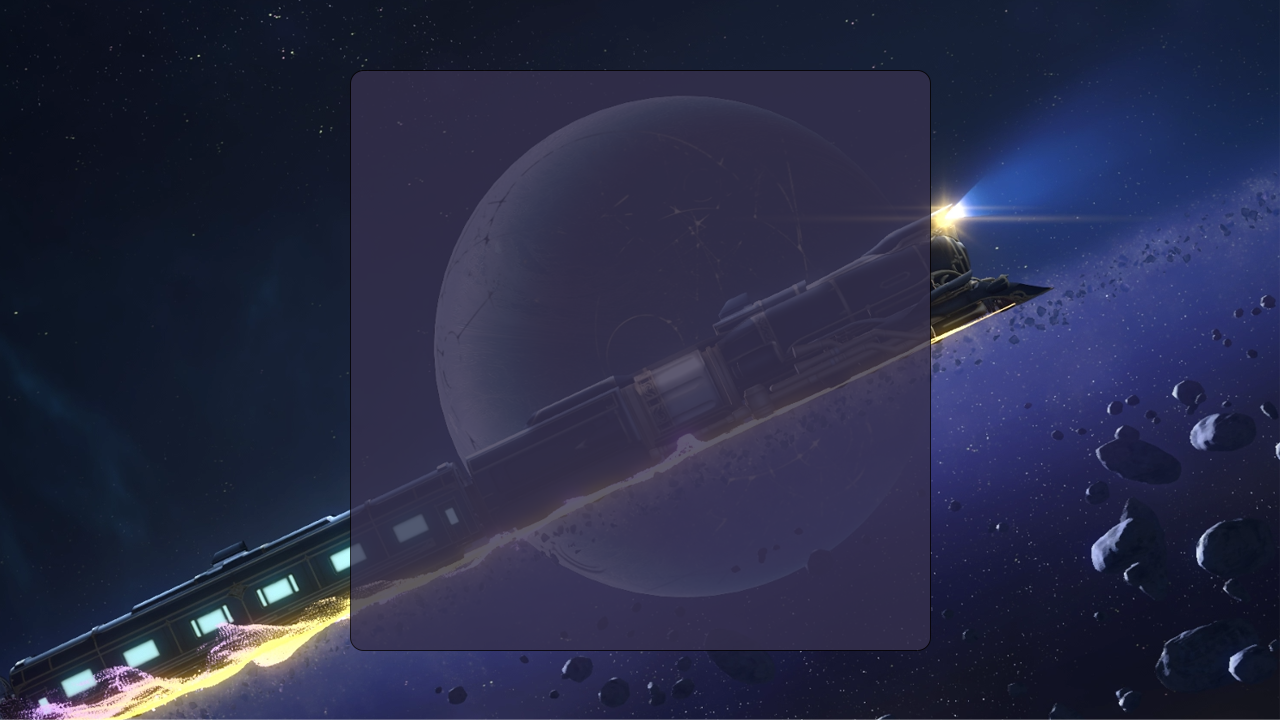
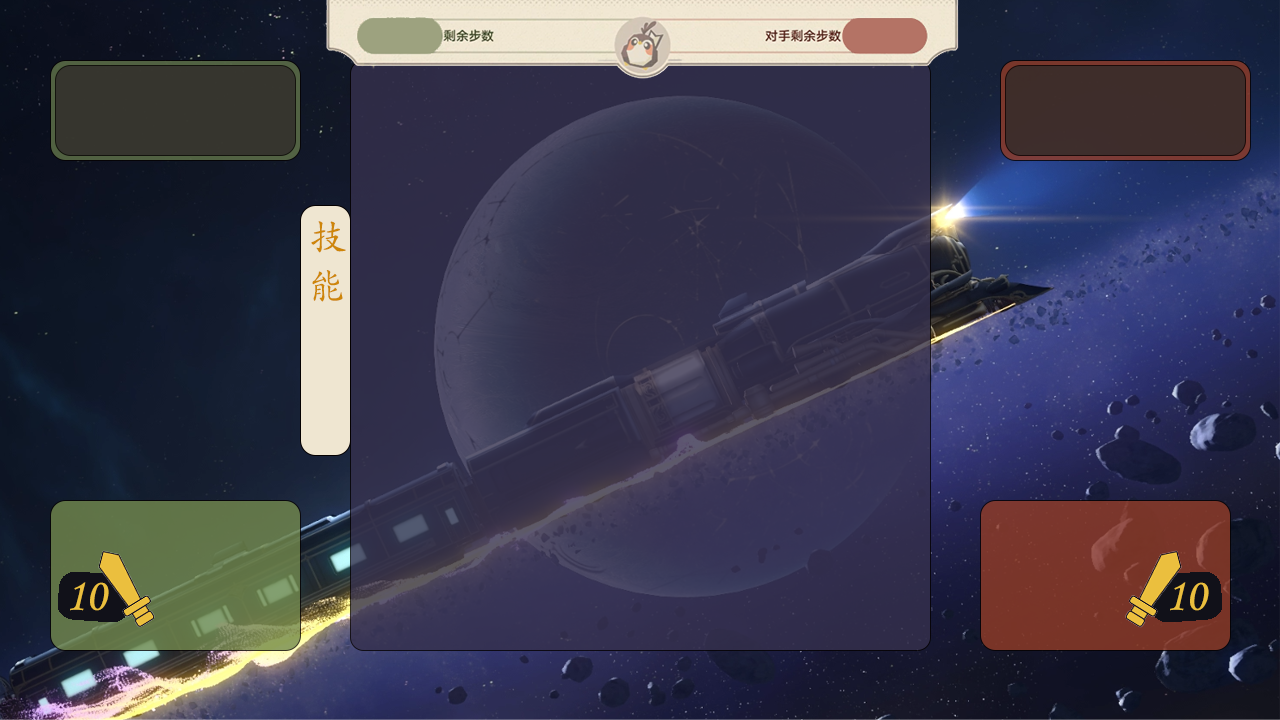
V10

diff --git a/play.cpp b/play.cpp
@@ -9,6 +9,32 @@ play::play(QWidget *parent)
     ui->setupUi(this);   
     this->setWindowTitle("小鸟消消乐");
     ui->bg->setPixmap(QPixmap(":/rc/bg.png"));
+    score=new QLabel(this);
+    cpscore=new QLabel(this);
+    step=new QLabel(this);
+    cpstep=new QLabel(this);;
+    QFont font1("华文隶书",48),font2("华文楷体",24);
+    score->setFont(font1);
+    cpscore->setFont(font1);
+    step->setFont(font2);
+    cpstep->setFont(font2);
+    score->setAlignment(Qt::AlignCenter);
+    cpscore->setAlignment(Qt::AlignCenter);
+    step->setAlignment(Qt::AlignCenter);
+    cpstep->setAlignment(Qt::AlignCenter);
+    score->setStyleSheet("QLabel { color : white; }");
+    cpscore->setStyleSheet("QLabel { color : white; }");
+    step->setStyleSheet("QLabel { color : rgb(254,191,68); }");
+    cpstep->setStyleSheet("QLabel { color : rgb(254,191,68); }");
+    score->setGeometry(140, 500, 150, 150);
+    cpscore->setGeometry(980, 500, 150, 150);
+    step->setGeometry(370, 20, 60, 33);
+    cpstep->setGeometry(855, 20, 60, 33);
+    score->setText(QString::number(Score));
+    cpscore->setText(QString::number(CPScore));
+    step->setText(QString::number(Step));
+    cpstep->setText(QString::number(CPStep));
+    CPRole=rand()%5;
     fruit=new QPushButton[49];
     for(int i=0;i<49;i++)
     {
@@ -29,6 +55,10 @@ play::~play()
 {
     delete ui;
     delete[] fruit;
+    delete score;
+    delete cpscore;
+    delete step;
+    delete cpstep;
 }
 
 void play::draw()
@@ -44,7 +74,7 @@ void play::draw()
             fruit[i*7+j].move(365+i*80,85+j*80);
         }
     this->repaint();
-    QTest::qSleep(100);
+    QTest::qSleep(10);
 }
 
 bool play::judgeStart()
@@ -75,6 +105,7 @@ void play::swap(int i)
         }
         else if(abs(sx-ix)+abs(sy-iy)==1)
         {
+            Step--;
             int tem=matrix[sx][sy];
             matrix[sx][sy]=matrix[ix][iy];
             matrix[ix][iy]=tem;
@@ -85,8 +116,7 @@ void play::swap(int i)
                 fruit[i].move(365+ix*80-Distance*vectorx*2,85+iy*80-Distance*vectory*2);
                 fruit[Selected].move(365+sx*80+Distance*vectorx*2,85+sy*80+Distance*vectory*2);
                 this->repaint();
-            }
-
+            }            
             if((matrix[sx][sy]>=5&&matrix[ix][iy]>=5)||matrix[sx][sy]==20||matrix[ix][iy]==20)
             {
                 int x=matrix[sx][sy]>matrix[ix][iy]?matrix[ix][iy]:matrix[sx][sy];
@@ -147,6 +177,7 @@ void play::swap(int i)
             {
                 matrix[ix][iy]=matrix[sx][sy];
                 matrix[sx][sy]=tem;
+                Step++;
             }
             Selected=-1;
             draw();
@@ -158,6 +189,9 @@ void play::swap(int i)
             Selected=i;
         }
     }
+    score->setText(QString::number(Score));
+    step->setText(QString::number(Step));
+    //if(step==0)
 }
 
 void play::Skillone(int y)
@@ -231,7 +265,7 @@ void play:: Skilltwo(int x)
 void play::Skillthree(int x,int y,int r)
 {
     for(int i=(x-r>0?x-r:0);i<=(x+r>6?6:x+r);i++)
-        for(int j=(y-r>0?y-r:0);j<(y+r>6?6:y+r);j++)
+        for(int j=(y-r>0?y-r:0);j<=(y+r>6?6:y+r);j++)
         {
             if(matrix[i][j]%5==People&&matrix[i][j]!=20)Num++;
             if(matrix[i][j]>=0)
@@ -424,7 +458,7 @@ void play::Skillfour(int num)
             for (int j = 0; j < 7; j++)
             {
                 if (matrix[i][j] % 5 == People && matrix[i][j] != 20)Num++;
-                if (matrix[i][j] >= 0 && matrix[i][j] % 5 == num % 5 && matrix[i][j] != 20)
+                if (matrix[i][j] >= 0 && matrix[i][j] != 20)
                 {
                     if (matrix[i][j] < 5)
                     {
@@ -814,28 +848,20 @@ bool play:: Judge()
 void play::fall()
 {
     draw();
-    for (int i = 0; i < 7; i++)
-    {
-        for (int j = 6; j >= 0; j--)
+    int flag;
+    do{
+        flag=0;
+        for(int j=6;j>=0;j--)
         {
-            if (matrix[i][j] == -1)
-            {
-                if(j)
+            for(int i=0;i<7;i++)
+                if(matrix[i][j] == -1)
                 {
-                    for (int p = j; p > 0; p--)
-                    {
-                        matrix[i][p] = matrix[i][p-1];
-                    }
-                    matrix[i][0] = rand()%5;                    
-                    j++;
-                    draw();
-                }
-                else {
+                    flag++;
+                    if(j)for (int p = j; p > 0; p--)matrix[i][p] = matrix[i][p-1];
                     matrix[i][0] = rand()%5;
-                    draw();
                 }
-            }
+            if(flag)draw();
         }
-    }
+    }while (flag);
     Judge();
 }

diff --git a/play.h b/play.h
@@ -7,6 +7,7 @@
 #include <QPushButton>
 #include <functional>
 #include <QTest>
+#include <QFont>
 namespace Ui {
 class play;
 }
@@ -33,6 +34,12 @@ public:
     int Num=0;
     int People=0;
     int Score=0;
+    int CPRole;
+    int CPScore=0;
+    int Step=18;
+    int CPStep=18;
+    int HP=100;
+    int CPHP=100;
 
     void draw();
     bool judgeStart();
@@ -45,6 +52,7 @@ private slots:
 private:
     Ui::play *ui;
     QPushButton *fruit;
+    QLabel *score,*cpscore,*step,*cpstep;
     QString nor="QPushButton{background-color: transparent;border-radius: 10px;}";
     QString sel="QPushButton{background-color: rgb(85, 255, 127);border-radius: 10px;}";
 };
